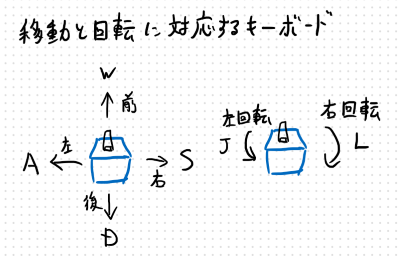
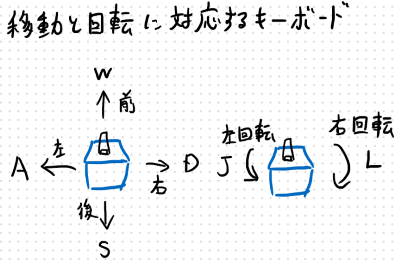
画像にある対応するキーが間違っていたのを修正

diff --git a/README.md b/README.md
@@ -1,6 +1,6 @@
 # research_shooter_agents
 
-**検証活動のご参加の際には、このREADME.mdをよく読んだ上で行うようにお願いいたします。m( _ _ )m**
+**検証活動のご参加の際には、このREADME.mdをよく読んだうえで行うようにお願いいたします。m( _ _ )m**
 
 ## PDⅢ検証用リポジトリ
 
